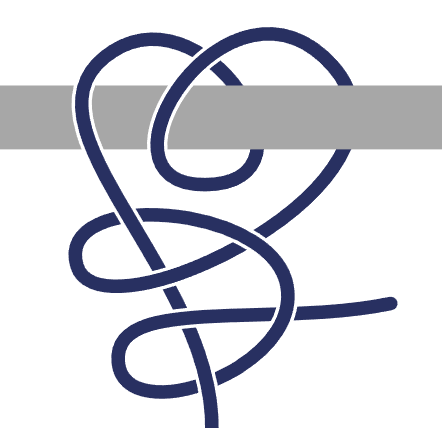
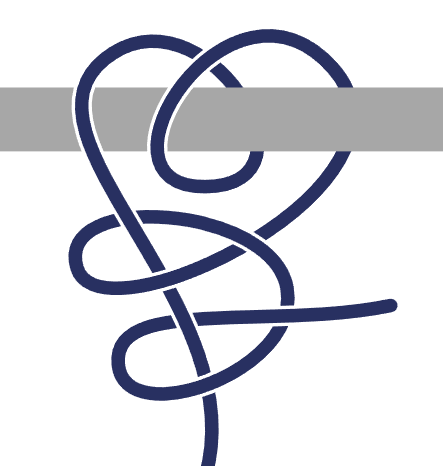
Initial commit

Changed region(s): [[0.0, 0.0607, 1.0, 1.0]]

diff --git a/src/app/TMDC/page.js b/src/app/TMDC/page.js
@@ -14,7 +14,7 @@ const RoundTurnTwoHalfHitchesPage = () => {
         "Pass the working end over the object.",
         "Make a turn around the object.",
         "Make the first half-hitch by passing the working end over the standing part.",
-        "Make the second half-hitch by passing the working end under the standing part.",
+        "Make the second half-hitch the same way you made the first one.",
         "Tighten the knot by pulling the standing part and the working end."
       ],
       buttonTexts: {
@@ -38,7 +38,7 @@ const RoundTurnTwoHalfHitchesPage = () => {
           {
             title: "Advice",
             items: [
-              "Make the first half-hitch in one direction and the second in the opposite direction, so the tightened half-hitches resemble a cow hitch."
+              "Make the first half-hitch in one direction and the second in the same direction."
             ]
           }
         ]
@@ -50,7 +50,7 @@ const RoundTurnTwoHalfHitchesPage = () => {
         "Passer le courant par dessus l'attache.",
         "Faire un tour mort autour de l'attache.",
         "Réaliser une première demi-clé en commençant par passer le courant par dessus le dormant.",
-        "Réaliser une seconde demi-clé en commençant par passer le courant par dessous le dormant.",
+        "Réaliser une seconde demi-clé dans le même sens.",
         "Finaliser le noeud en tirant sur le dormant."
       ],
       buttonTexts: {
@@ -74,7 +74,7 @@ const RoundTurnTwoHalfHitchesPage = () => {
           {
             title: "Conseils",
             items: [
-              "Réaliser la première demi-clé dans un sens et la deuxième dans le sens inverse, au final les demi-clés serrées doivent ressembler à un noeud d'alouette."
+              "Réaliser la première demi-clé dans un sens et la deuxième dans le même sens."
             ]
           }
         ]
